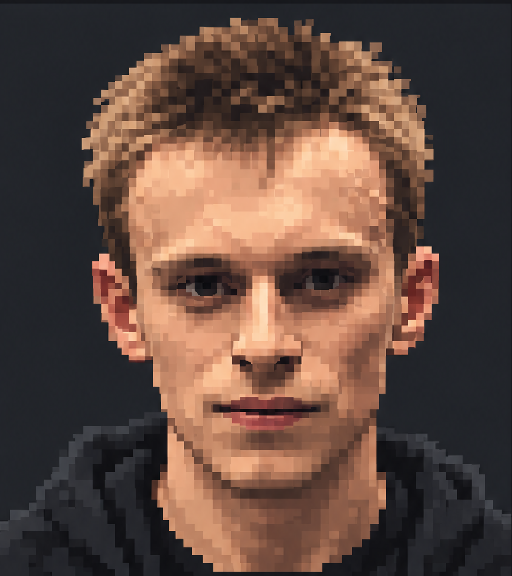
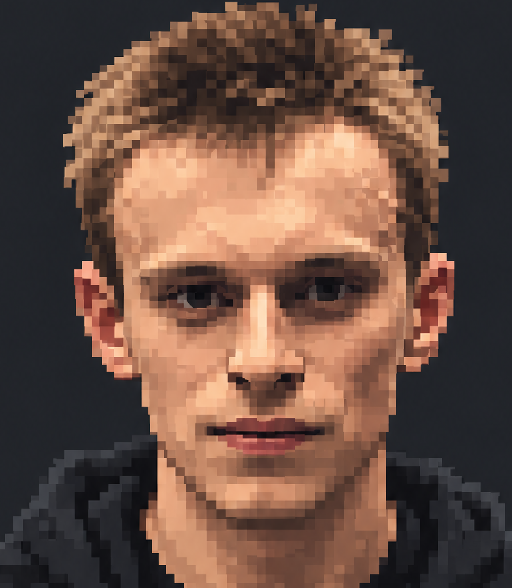
Новый портрет Вовы, пульс на логотипе, подсветка карточки при наведении, мемы и реплики в оранжевых рамках, обучение только по клику

diff --git a/css/style.css b/css/style.css
@@ -50,14 +50,16 @@ html, body {
 
 .bubble {
 	position: absolute;
-	max-width: 180px;
+	max-width: 190px;
 	padding: 8px 12px;
-	background: #f0f0f0;
-	color: #222;
-	border-radius: 8px;
-	font-family: system-ui, sans-serif;
-	font-size: 13px;
-	line-height: 1.3;
+	background: #1d1d30;
+	color: #fff;
+	border: 2px solid #f0c040;
+	border-radius: 4px;
+	box-shadow: 3px 3px 0 rgba(0, 0, 0, 0.5);
+	font-family: var(--body-font);
+	font-size: 12px;
+	line-height: 1.35;
 	pointer-events: none;
 	animation: bubbleFloat 1.8s ease-out forwards; /* длительность правится в config.js → ui.bubbleSec */
 }
@@ -82,14 +84,26 @@ html, body {
 	margin: 0 0 14px;
 }
 
-/* Пульсирующее свечение рамки выбранного персонажа */
-@keyframes selectGlow {
-	0%, 100% { box-shadow: inset 0 0 0 3px #1d1d30, 0 0 10px rgba(240, 192, 64, 0.35), 4px 4px 0 rgba(0, 0, 0, 0.5); }
-	50% { box-shadow: inset 0 0 0 3px #1d1d30, 0 0 26px rgba(240, 192, 64, 0.7), 4px 4px 0 rgba(0, 0, 0, 0.5); }
+/* Логотип игры: мягко пульсирует свечением */
+.game-logo {
+	animation: logoPulse 1.6s ease-in-out infinite;
 }
 
-.vova-card-glow {
-	animation: selectGlow 1.2s ease-in-out infinite;
+@keyframes logoPulse {
+	0%, 100% { filter: drop-shadow(0 0 2px rgba(240, 192, 64, 0.3)); }
+	50% { filter: drop-shadow(0 0 9px rgba(240, 192, 64, 0.75)); }
+}
+
+/* Карточка персонажа: оранжевая рамка, подсветка при наведении/тапе */
+.vova-card {
+	border: 3px solid #f0c040;
+	box-shadow: 4px 4px 0 rgba(0, 0, 0, 0.5);
+	transition: border-color 0.15s steps(2), box-shadow 0.15s steps(2);
+}
+
+.vova-card:hover {
+	border-color: #ffd966;
+	box-shadow: 4px 4px 0 rgba(0, 0, 0, 0.5), 0 0 14px rgba(240, 192, 64, 0.55);
 }
 
 .final-percent {

diff --git a/js/ui.js b/js/ui.js
@@ -96,7 +96,7 @@ const UI = {
 				display: flex; flex-direction: column; align-items: center;">
 				<!-- Зона логотипа: визуально отделена, доминирует -->
 				<div style="margin-top: 64px; text-align: center;">
-					<p style="font-size: 27px; color: #f0c040; margin: 0; line-height: 1.4;
+					<p class="game-logo" style="font-size: 27px; color: #f0c040; margin: 0; line-height: 1.4;
 						font-family: var(--pixel-font); text-shadow: 4px 4px 0 #c05050;">one <3 офис</p>
 					<p style="font-size: 8px; letter-spacing: 3px; color: #8a92a8;
 						margin: 14px 0 0; font-family: var(--pixel-font);">ПРОВЕРЬ, НА ЧТО ТЫ СПОСОБЕН</p>
@@ -113,9 +113,9 @@ const UI = {
 				<p style="font-size: 12px; color: #8a8a9a; margin: 0 0 14px;
 					font-family: var(--body-font);">Кто ты сегодня в офисе?</p>
 				<div style="display: flex; gap: 12px; align-items: stretch; height: 264px;">
-					<div id="vova-card" class="vova-card-glow" style="width: 128px; cursor: pointer;
+					<div id="vova-card" class="vova-card" style="width: 128px; cursor: pointer;
 						background: linear-gradient(180deg, #2c2c44, #1d1d30);
-						border: 3px solid #f0c040; border-radius: 0; padding: 7px;
+						padding: 7px;
 						display: flex; flex-direction: column; box-sizing: border-box;">
 						<img src="assets/characters/vova_character_select.png" alt="Вова"
 							style="flex: 1; min-height: 0; width: 100%; object-fit: cover;

diff --git a/js/config.js b/js/config.js
@@ -1,6 +1,6 @@
 // Все настраиваемые числа и тексты игры — только здесь (правило ТЗ §7)
 const CONFIG = {
-	version: "v0.9.4",        // отладочный номер версии — виден на экране, bump с каждым шагом
+	version: "v0.9.5",        // отладочный номер версии — виден на экране, bump с каждым шагом
 	round: {
 		durationSec: 60,          // длина забега
 		maxDurationSec: 70,       // жёсткий потолок (требование автора)

diff --git a/js/main.js b/js/main.js
@@ -70,8 +70,8 @@
 			caught();
 		}
 
-		// Обучение: плашка до первого касания или 3 с (ТЗ §6.2)
-		if (!Game.tutorialDone && (Input.pressed || Game.time >= 3)) {
+		// Обучение: плашка исчезает только после первого касания (решение автора)
+		if (!Game.tutorialDone && Input.pressed) {
 			Game.tutorialDone = true;
 			UI.hideTutorial();
 		}
